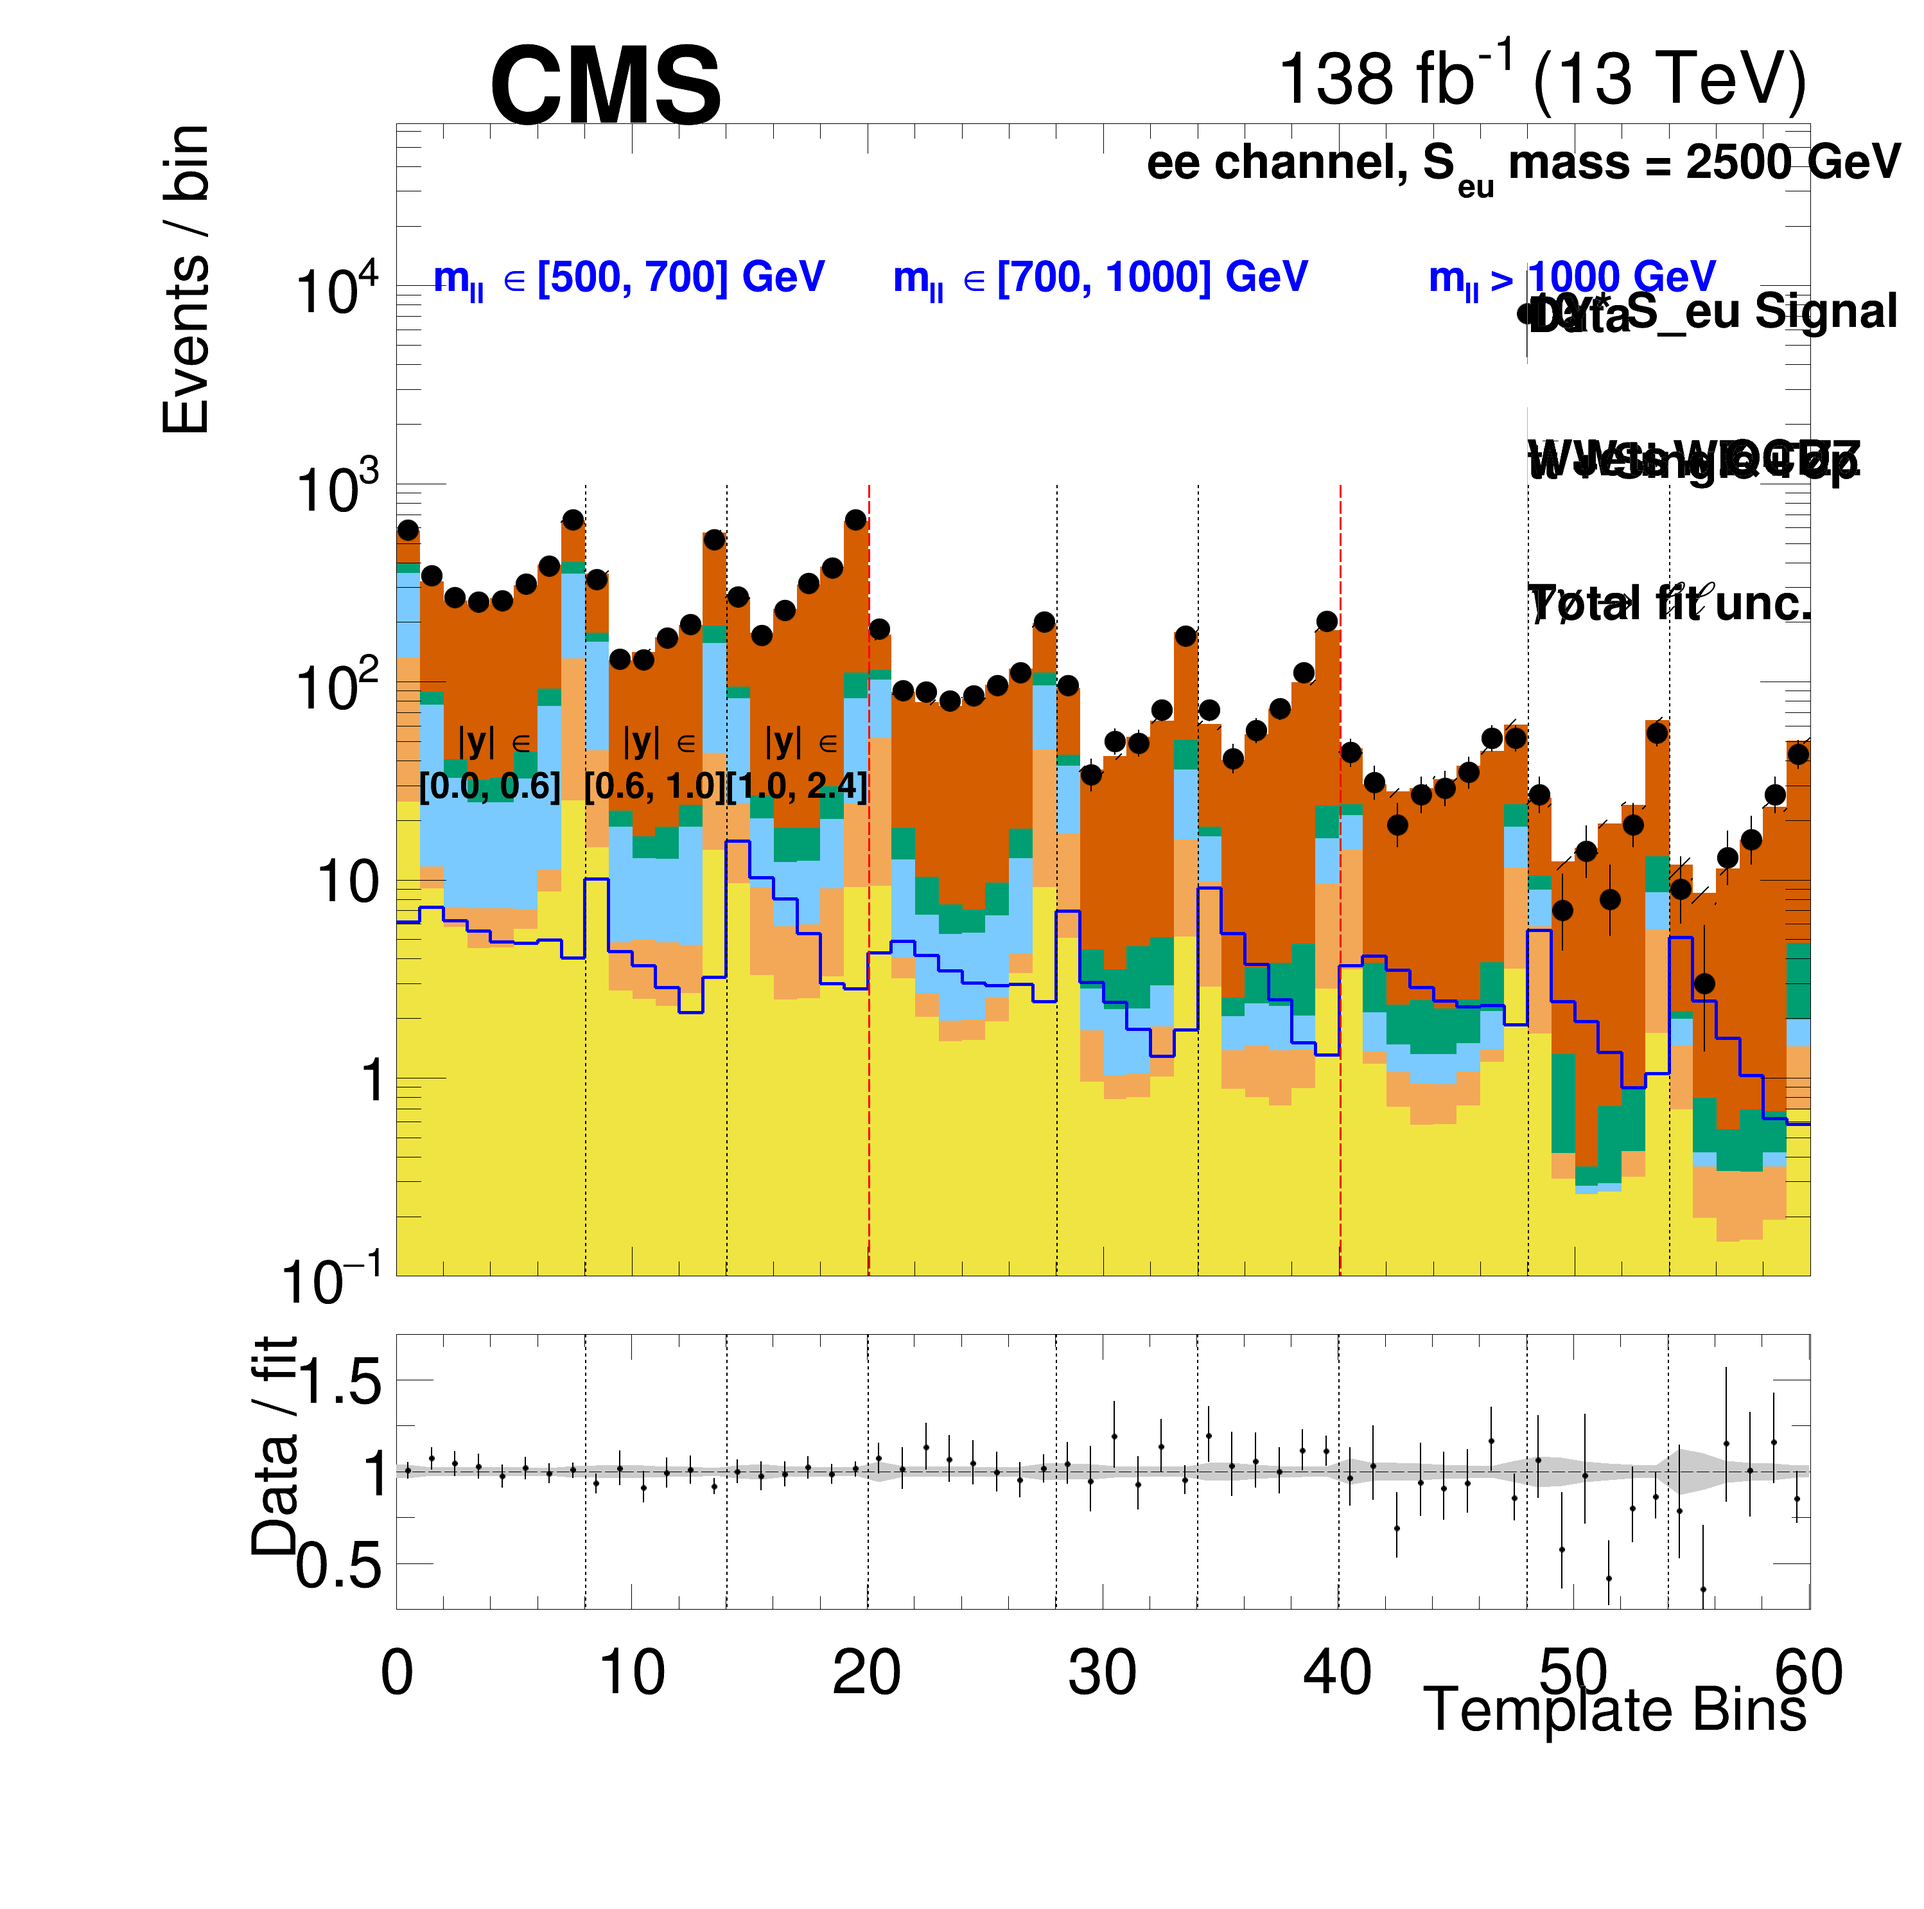
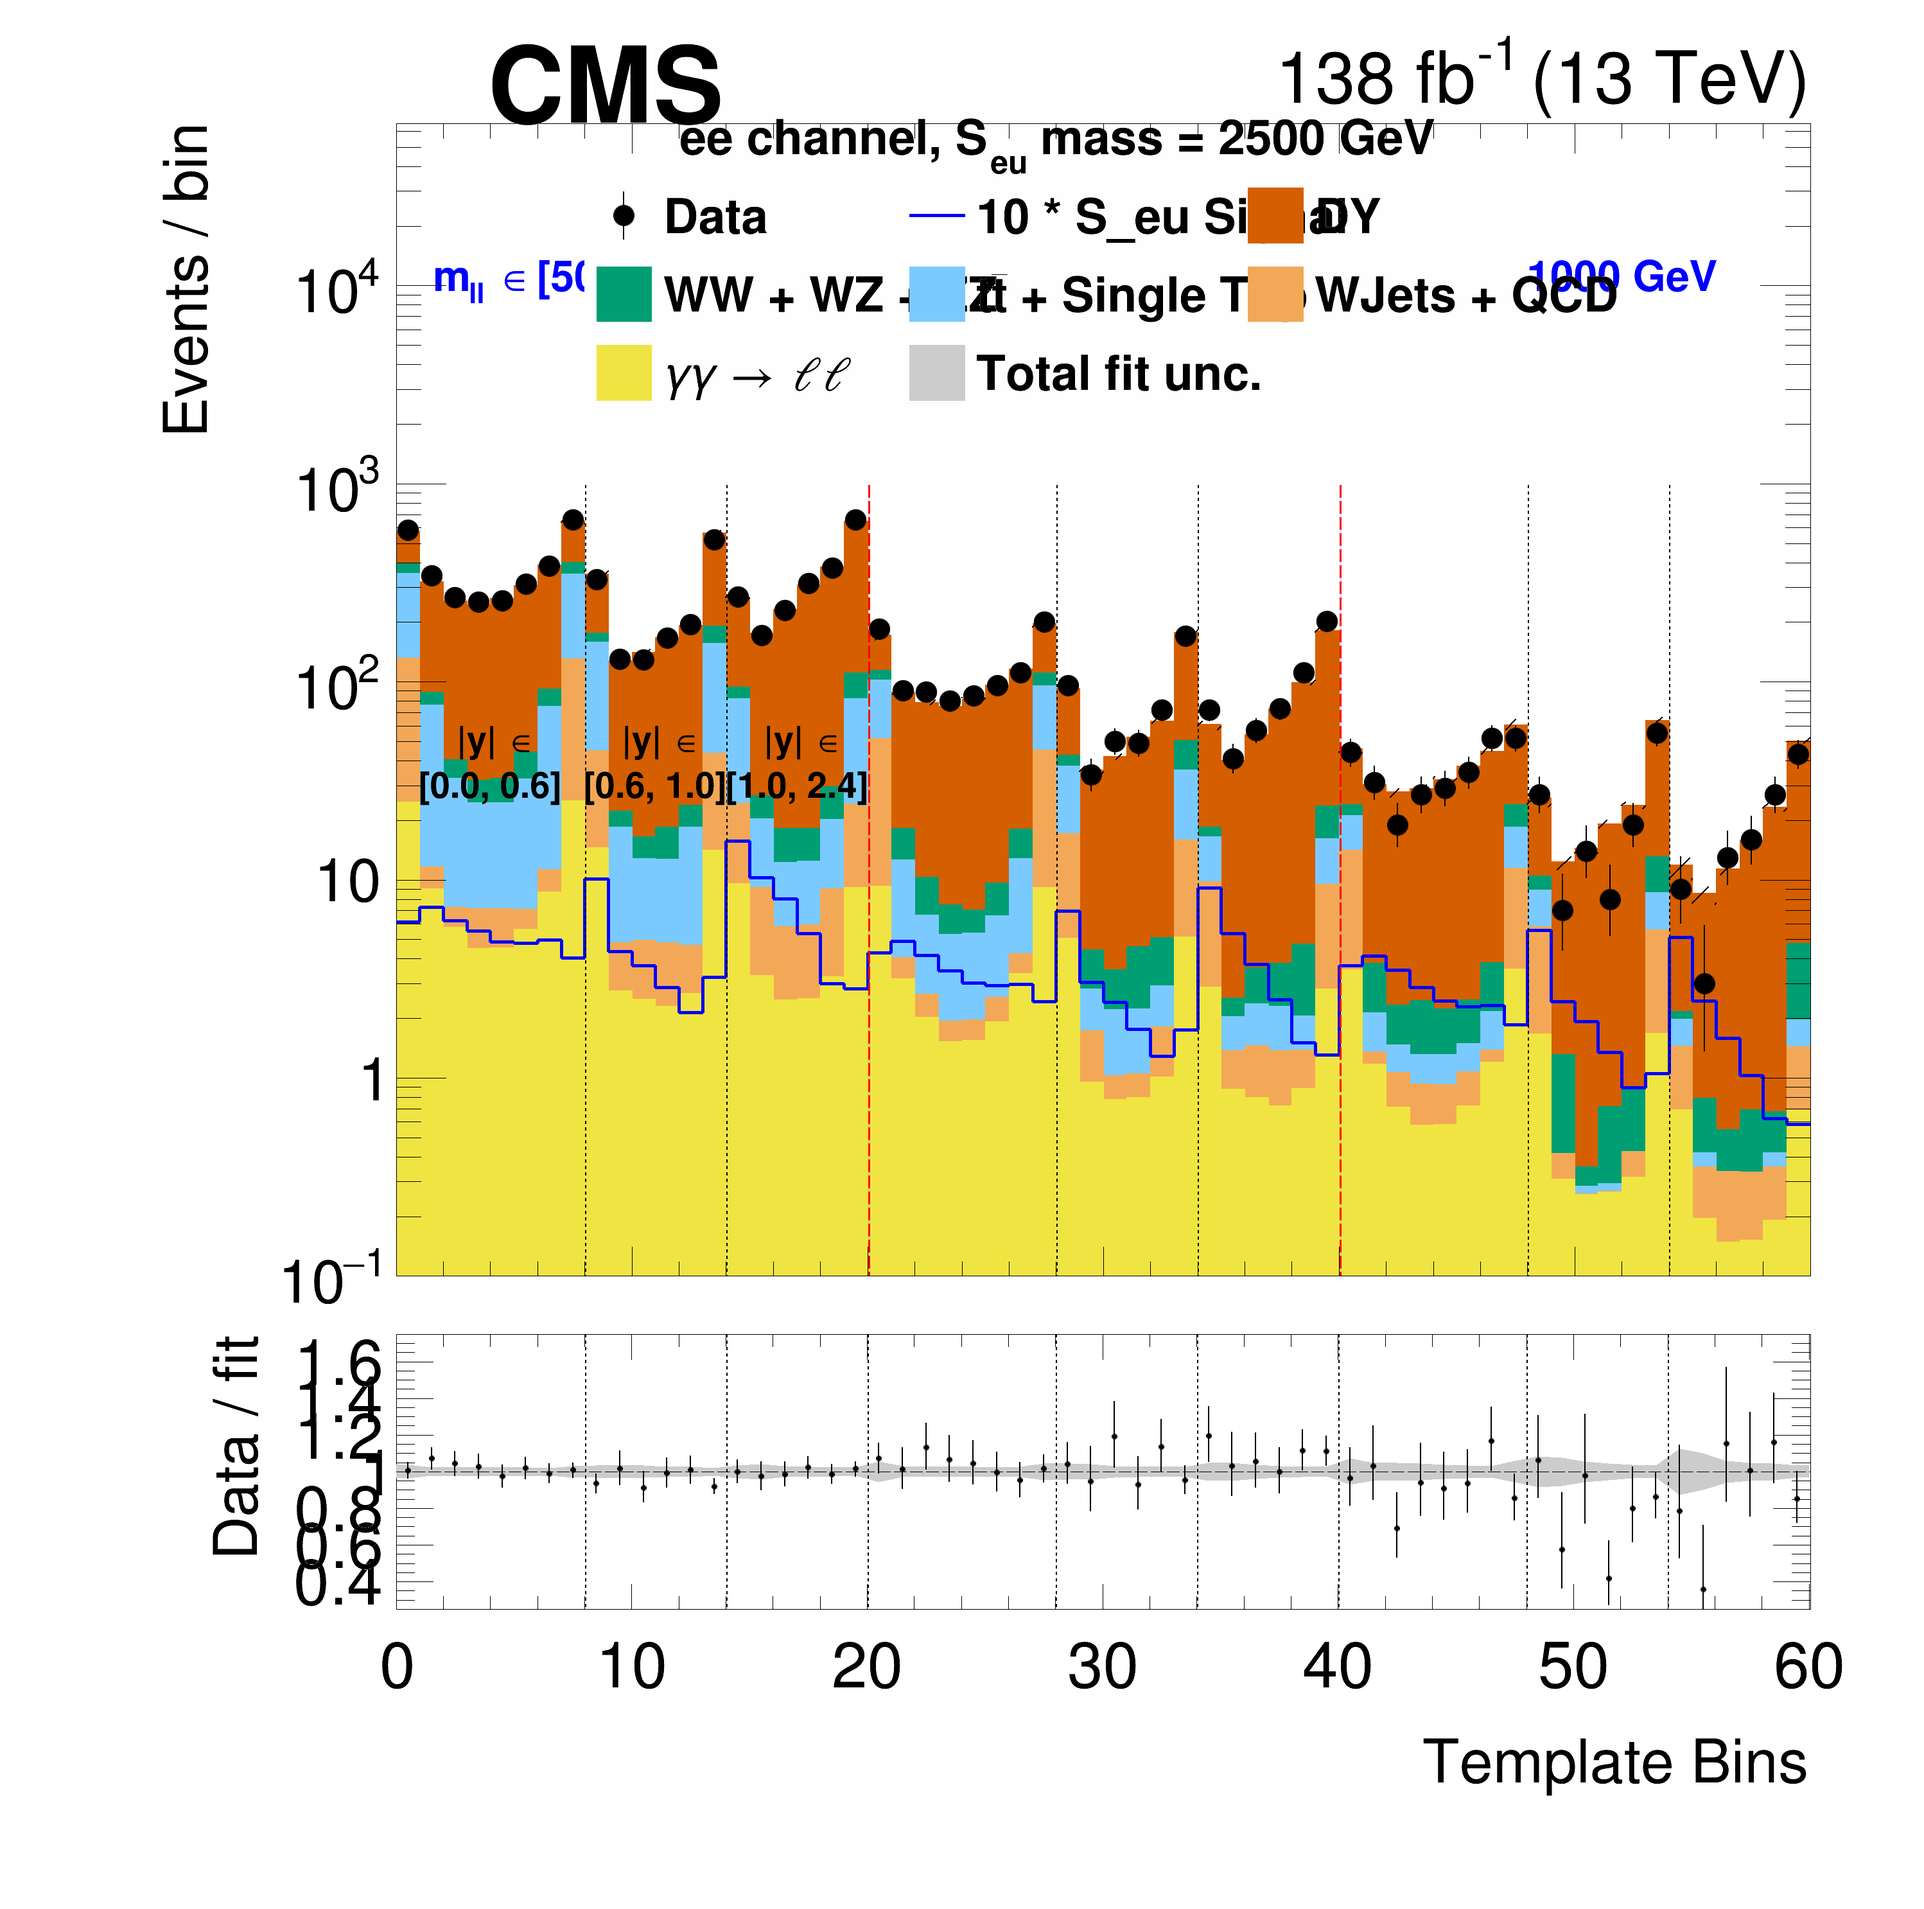
fixing postfit

diff --git a/analyze/combine/AFB_fits/scripts/LQ_plot_postfit.py b/analyze/combine/AFB_fits/scripts/LQ_plot_postfit.py
@@ -158,7 +158,7 @@ def makeCan(name, tag, histlist, bkglist=[],signals=[],totlist = [], colors=[],t
 
 					legends.append(TLegend(x_start,y_end - y_size,x_start + x_size,y_end))
 				else: 
-					legends.append(TLegend(0.8,0.5,0.8,0.82+0.02*(len(bkglist[0])+len(signals))))
+					legends.append(TLegend(0.3,0.7,0.8,0.82+0.02*(len(bkglist[0])+len(signals))))
 
 				stacks.append(THStack(hist.GetName()+'_stack',hist.GetName()+'_stack'))
 				legends_list.append([])
@@ -400,23 +400,23 @@ def makeCan(name, tag, histlist, bkglist=[],signals=[],totlist = [], colors=[],t
 
 
 				ratio_sys_unc.GetYaxis().SetRangeUser(ratio_range[0], ratio_range[1])
-				ratio_sys_unc.GetYaxis().SetTitleOffset(lTOffset)
+				ratio_sys_unc.GetYaxis().SetTitleOffset(lTOffset+0.111)
 				ratio_sys_unc.GetYaxis().SetTickLength(0.04)
 							 
 				ratio_sys_unc.GetYaxis().SetLabelSize(LS)
 				ratio_sys_unc.GetYaxis().SetTitleSize(YTS)
-				ratio_sys_unc.GetYaxis().SetNdivisions(NDiv)
+				ratio_sys_unc.GetYaxis().SetNdivisions(NDiv+5)
 				ratio_sys_unc.GetYaxis().SetTitle("Data / fit")
 
 				ratio_sys_unc.GetXaxis().SetRangeUser(0., hist.GetNbinsX()-.08)
-				ratio_sys_unc.GetXaxis().SetTitleOffset(1.)
-				ratio_sys_unc.GetXaxis().SetLabelOffset(0.05)
+				ratio_sys_unc.GetXaxis().SetTitleOffset(1.5)
+				ratio_sys_unc.GetXaxis().SetLabelOffset(0.04)
 				ratio_sys_unc.GetXaxis().SetLabelSize(LS)
 				ratio_sys_unc.GetXaxis().SetTitleSize(XTS)
 				ratio_sys_unc.GetXaxis().SetTitle(xtitle)
 				ratio_sys_unc.GetXaxis().SetTickLength(0.06)
 
-				ratio_sys_unc.SetMarkerSize(2)
+				ratio_sys_unc.SetMarkerSize(5)
 				#ratio_sys_unc.SetFillColor(ROOT.kBlack)
 				#ratio_sys_unc.SetFillStyle(3015)
 				ratio_sys_unc.SetLineColor(ROOT.kGray)
